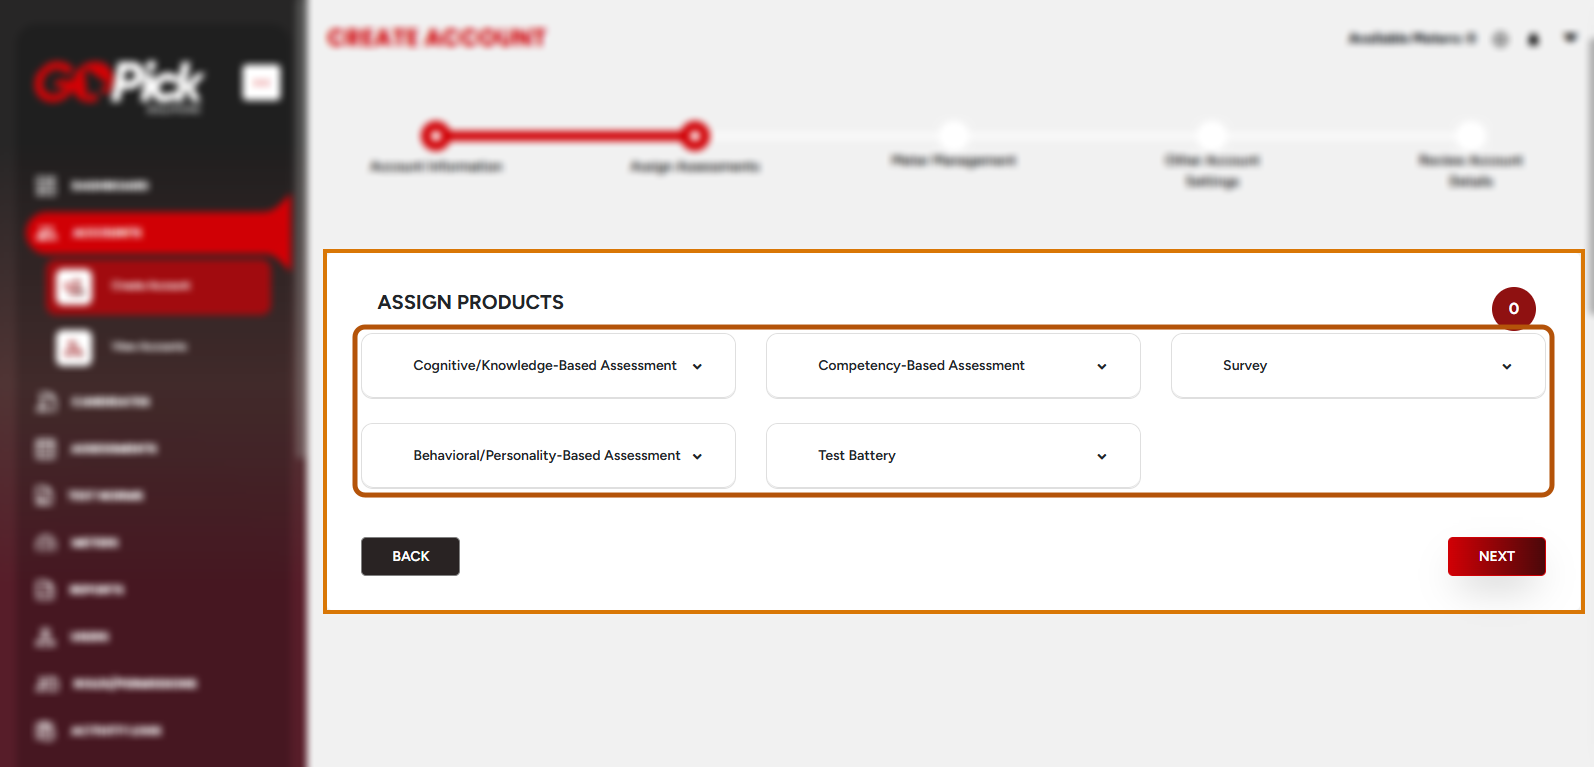
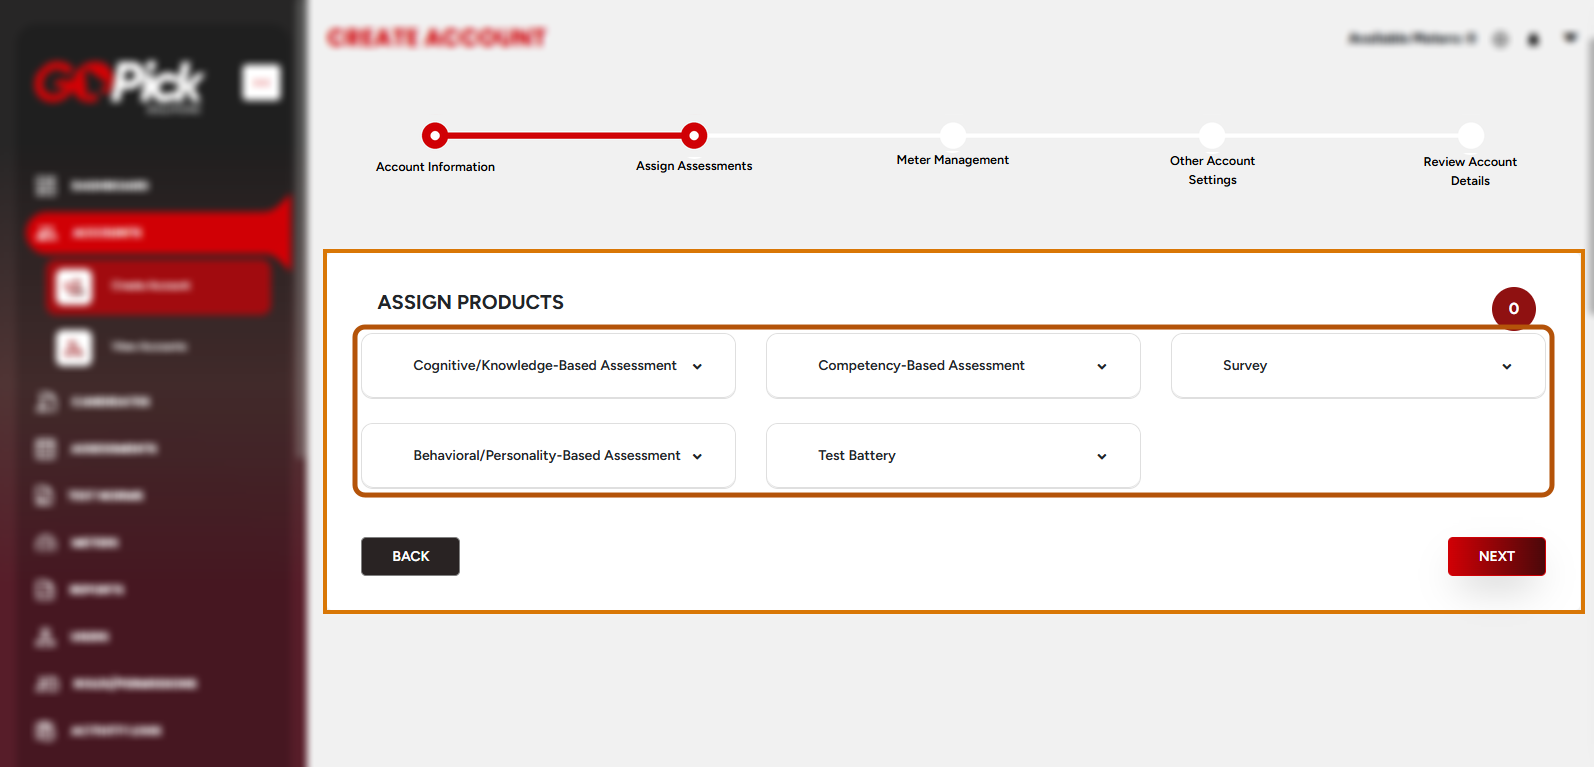
fix(accounts-management): unblur steppers and regroup update specific images
- Redraw sharp stepper labels on the create account and update specific screenshots
- Label the five fixed demographics fields Locked and the rest Editable
- Move each update specific form screenshot into its matching section carousel
- Bump the dataFiller.js version

diff --git a/pages/workflow/accounts-management/assets/js/dataFiller.js b/pages/workflow/accounts-management/assets/js/dataFiller.js
@@ -431,32 +431,6 @@
             id: 'update-specific',
             title: 'Update Specific',
             detail: 'Updates one account detail section from the account detail page. The available update form depends on the account detail section where the update is triggered.',
-            images: [
-                {
-                    title: 'Update Specific Form: Account Information',
-                    caption: 'Section-isolated update view within the account detail page.',
-                    src: 'assets/img/update-specific-account-information.png',
-                    alt: 'Update Account: Account Information form with a two-step progress bar, read-only account type, username and parent account, and editable contact fields'
-                },
-                {
-                    title: 'Update Specific Form: Assign Products',
-                    caption: 'Assign Products update form outlined, with the Next button emphasized and the account name blurred.',
-                    src: 'assets/img/update-specific-assign-products.png',
-                    alt: 'Update Account: Assign Products page with the form card outlined, showing the Update Assessment button and assessment category dropdowns; the Next button is emphasized and the account name is blurred'
-                },
-                {
-                    title: 'Update Specific Form: Meter Management',
-                    caption: 'Meter Management update form outlined, with the Review Changes button emphasized.',
-                    src: 'assets/img/update-specific-meter-management.png',
-                    alt: 'Meter Management page with the form card outlined, showing the View Meter Log button, the Metering Management Type option, and Current Meters; the Review Changes button is emphasized'
-                },
-                {
-                    title: 'Update Specific Form: Other Account Settings',
-                    caption: 'Other Account Settings update form outlined, showing the account limits and contact fields.',
-                    src: 'assets/img/update-specific-other-account-settings.png',
-                    alt: 'Account Settings page with the Other Account Settings form card outlined, showing account limit fields, API Access Username, and HRSC and Assessment Specialist fields'
-                }
-            ],
             rules: ['Updating the current user own account only opens the Account Information variant.', 'Password fields are not prefilled.'],
             accessPath: 'Accounts > View Accounts > Row Actions > View > Section > Update',
             howToUse: [
@@ -479,12 +453,20 @@
                 {
                     id: 'update-specific-account-information',
                     title: 'Account Information',
-                    images: [{
-                        title: 'Update Specific: Account Information',
-                        caption: 'Account Information tab with the section card and the Update button outlined.',
-                        src: 'assets/img/update-specific-group-account-information.png',
-                        alt: 'View Account page with the Account Information card and its Update button outlined; personal values are blurred'
-                    }],
+                    images: [
+                        {
+                            title: 'Update Specific: Account Information',
+                            caption: 'Account Information tab with the section card and the Update button outlined.',
+                            src: 'assets/img/update-specific-group-account-information.png',
+                            alt: 'View Account page with the Account Information card and its Update button outlined; personal values are blurred'
+                        },
+                        {
+                            title: 'Update Specific Form: Account Information',
+                            caption: 'Account Information update form opened after selecting Update.',
+                            src: 'assets/img/update-specific-account-information.png',
+                            alt: 'Update Account: Account Information form with a two-step progress bar, read-only account type, username and parent account, and editable contact fields'
+                        }
+                    ],
                     items: [
                         {
                             label: 'Locked inputs',
@@ -528,12 +510,20 @@
                 {
                     id: 'update-specific-assigned-assessments',
                     title: 'Assigned Assessments',
-                    images: [{
-                        title: 'Update Specific: Assigned Assessments',
-                        caption: 'Assigned Assessments tab with the assessment list and the Update button outlined.',
-                        src: 'assets/img/update-specific-group-assigned-assessments.png',
-                        alt: 'View Account page with the Assigned Assessments card, its Manage and Change Log actions, and the Update button outlined'
-                    }],
+                    images: [
+                        {
+                            title: 'Update Specific: Assigned Assessments',
+                            caption: 'Assigned Assessments tab with the assessment list and the Update button outlined.',
+                            src: 'assets/img/update-specific-group-assigned-assessments.png',
+                            alt: 'View Account page with the Assigned Assessments card, its Manage and Change Log actions, and the Update button outlined'
+                        },
+                        {
+                            title: 'Update Specific Form: Assign Products',
+                            caption: 'Assign Products update form outlined, with the Next button emphasized and the account name blurred.',
+                            src: 'assets/img/update-specific-assign-products.png',
+                            alt: 'Update Account: Assign Products page with the form card outlined, showing the Update Assessment button and assessment category dropdowns; the Next button is emphasized and the account name is blurred'
+                        }
+                    ],
                     items: [
                         {
                             label: 'Editable inputs',
@@ -548,12 +538,20 @@
                 {
                     id: 'update-specific-meter-management',
                     title: 'Meter Management',
-                    images: [{
-                        title: 'Update Specific: Meter Management',
-                        caption: 'Meter Management tab with the section card and the Update button outlined next to View Meter Logs.',
-                        src: 'assets/img/update-specific-group-meter-management.png',
-                        alt: 'View Account page with the Meter Management card and its Update and View Meter Logs buttons, with the Update button outlined'
-                    }],
+                    images: [
+                        {
+                            title: 'Update Specific: Meter Management',
+                            caption: 'Meter Management tab with the section card and the Update button outlined next to View Meter Logs.',
+                            src: 'assets/img/update-specific-group-meter-management.png',
+                            alt: 'View Account page with the Meter Management card and its Update and View Meter Logs buttons, with the Update button outlined'
+                        },
+                        {
+                            title: 'Update Specific Form: Meter Management',
+                            caption: 'Meter Management update form outlined, with the Review Changes button emphasized.',
+                            src: 'assets/img/update-specific-meter-management.png',
+                            alt: 'Meter Management page with the form card outlined, showing the View Meter Log button, the Metering Management Type option, and Current Meters; the Review Changes button is emphasized'
+                        }
+                    ],
                     items: [
                         {
                             label: 'Editable inputs',
@@ -575,12 +573,20 @@
                 {
                     id: 'update-specific-other-account-settings',
                     title: 'Other Account Settings',
-                    images: [{
-                        title: 'Update Specific: Other Account Settings',
-                        caption: 'Other Account Settings tab with the section card and the Update button outlined.',
-                        src: 'assets/img/update-specific-group-other-account-settings.png',
-                        alt: 'View Account page with the Other Account Settings card showing user limits, usage settings, and contract settings, with the Update button outlined'
-                    }],
+                    images: [
+                        {
+                            title: 'Update Specific: Other Account Settings',
+                            caption: 'Other Account Settings tab with the section card and the Update button outlined.',
+                            src: 'assets/img/update-specific-group-other-account-settings.png',
+                            alt: 'View Account page with the Other Account Settings card showing user limits, usage settings, and contract settings, with the Update button outlined'
+                        },
+                        {
+                            title: 'Update Specific Form: Other Account Settings',
+                            caption: 'Other Account Settings update form outlined, showing the account limits and contact fields.',
+                            src: 'assets/img/update-specific-other-account-settings.png',
+                            alt: 'Account Settings page with the Other Account Settings form card outlined, showing account limit fields, API Access Username, and HRSC and Assessment Specialist fields'
+                        }
+                    ],
                     items: [
                         {
                             label: 'Editable inputs',
@@ -837,19 +843,19 @@
                 title: 'Demographics',
                 images: [{
                     title: 'Demographics',
-                    caption: 'Content Manager: Demographics with the Manage Demographics Form outlined, showing the five required fields checked, the optional field checkboxes, and the Save Changes button emphasized.',
+                    caption: 'Content Manager: Demographics with the Manage Demographics Form outlined, showing the five locked fields checked, the editable field checkboxes, and the Save Changes button emphasized.',
                     src: 'assets/img/demographics.png',
-                    alt: 'Content Manager Demographics page with the Manage Demographics Form outlined, required fields checked, optional field checkboxes, and the Save Changes button emphasized'
+                    alt: 'Content Manager Demographics page with the Manage Demographics Form outlined, locked fields checked, editable field checkboxes, and the Save Changes button emphasized'
                 }],
                 detail: 'Manages which demographic fields appear in the candidate-side demographics form.',
                 actions: ['Save Button'],
                 items: [
                     {
-                        label: 'Required inputs',
+                        label: 'Locked inputs',
                         children: ['First Name', 'Last Name', 'Gender', 'Email', 'Position Applied']
                     },
                     {
-                        label: 'Optional inputs',
+                        label: 'Editable inputs',
                         children: [
                             'Birthdate',
                             'Civil Status',
@@ -873,7 +879,7 @@
                 accessPath: 'Accounts > View Accounts > Row Actions > View > Account Configuration Dropdown > Demographics',
                 howToUse: ['Open Demographics.', 'Toggle demographic fields that should appear.', 'Save changes.'],
                 rules: [
-                    'First Name, Last Name, Gender, Email, and Position Applied are required by default and cannot be toggled off.',
+                    'First Name, Last Name, Gender, Email, and Position Applied are locked on and cannot be toggled off.',
                     'This page can be hidden for a specific account group by Super Admin configuration.'
                 ],
                 expected: ['Demographic data gathering is updated.', 'If the page is not visible, the account is not allowed to use this function.'],

diff --git a/pages/workflow/accounts-management/index.html b/pages/workflow/accounts-management/index.html
@@ -168,7 +168,7 @@
   <script src="../../../shared/js/ui/docsComponents.js?v=20261029-id-length" defer></script>
   <script src="../../../shared/js/ui/docsSkeleton.js?v=20261029-id-length" defer></script>
   <script src="../../../shared/js/ui/docsScreenshotViewer.js?v=20261028-docs-flow" defer></script>
-  <script src="assets/js/dataFiller.js?v=20261028-update-specific-forms" defer></script>
+  <script src="assets/js/dataFiller.js?v=20261029-update-specific-images" defer></script>
   <script src="assets/js/contentStore.js?v=20261028-docs-page" defer></script>
   <script src="assets/js/flowBuilders.js?v=20261029-shadcn-blocks" defer></script>
   <script src="assets/js/viewBuilders.js?v=20261029-shadcn-blocks" defer></script>

diff --git a/docs/workflow/account-management.md b/docs/workflow/account-management.md
@@ -463,8 +463,8 @@ Manages which demographic fields appear in the candidate-side demographics form.
 3. Save changes.
 
 > Rules:
-> - `First Name`, `Last Name`, `Gender`, `Email`, and `Position Applied` are required by default and cannot be toggled off.
-> - Optional toggle fields include `Birthdate`, `Civil Status`, `Alternative/Work Email`, `Phone Number`, `Educational Attainment`, `Work Experience`, `Level of Position Applying For`, `Course`, `Priority Course`, `Region of Residence`, `Agency Visited`, `Service Availed`, `Customer Type`, `Age`, `Transaction Type`, and `School`.
+> - `First Name`, `Last Name`, `Gender`, `Email`, and `Position Applied` are locked on and cannot be toggled off.
+> - Editable toggle fields include `Birthdate`, `Civil Status`, `Alternative/Work Email`, `Phone Number`, `Educational Attainment`, `Work Experience`, `Level of Position Applying For`, `Course`, `Priority Course`, `Region of Residence`, `Agency Visited`, `Service Availed`, `Customer Type`, `Age`, `Transaction Type`, and `School`.
 > - This page can be hidden for a specific account group by Super Admin configuration.
 
 > Expected Result:
